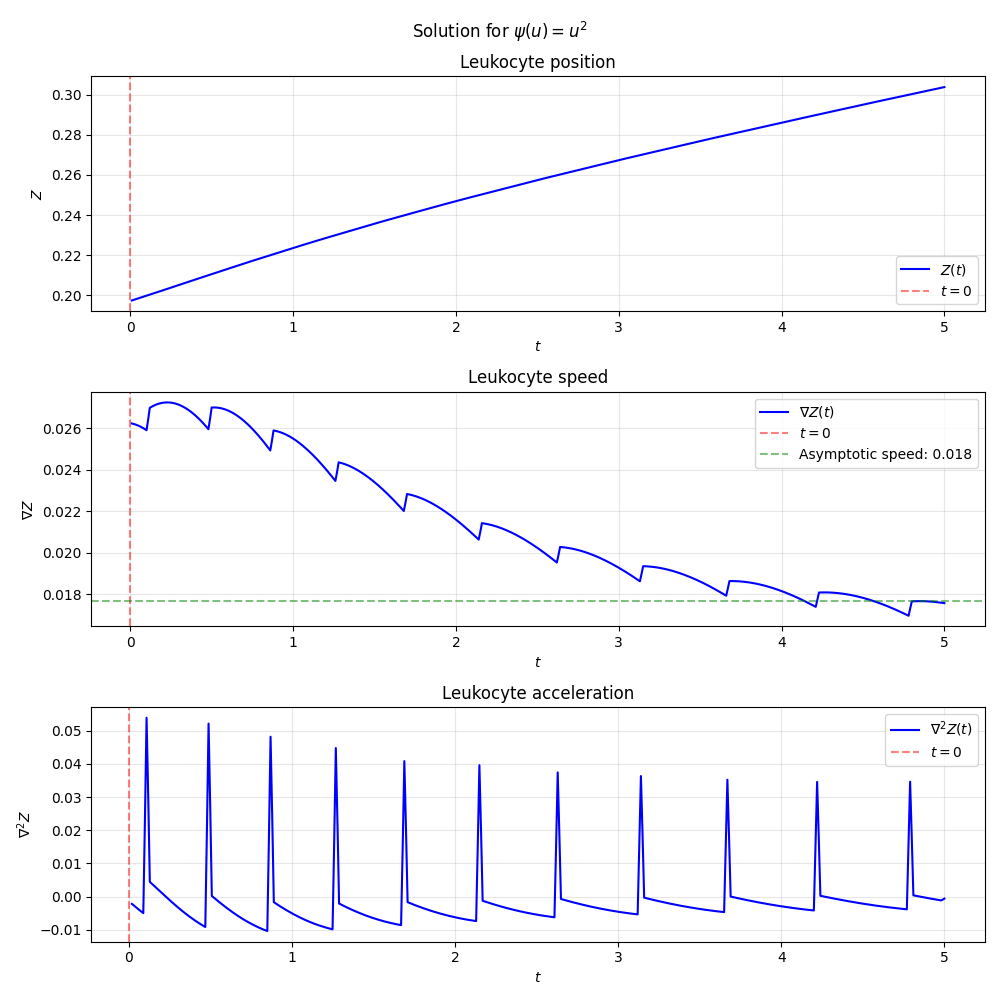
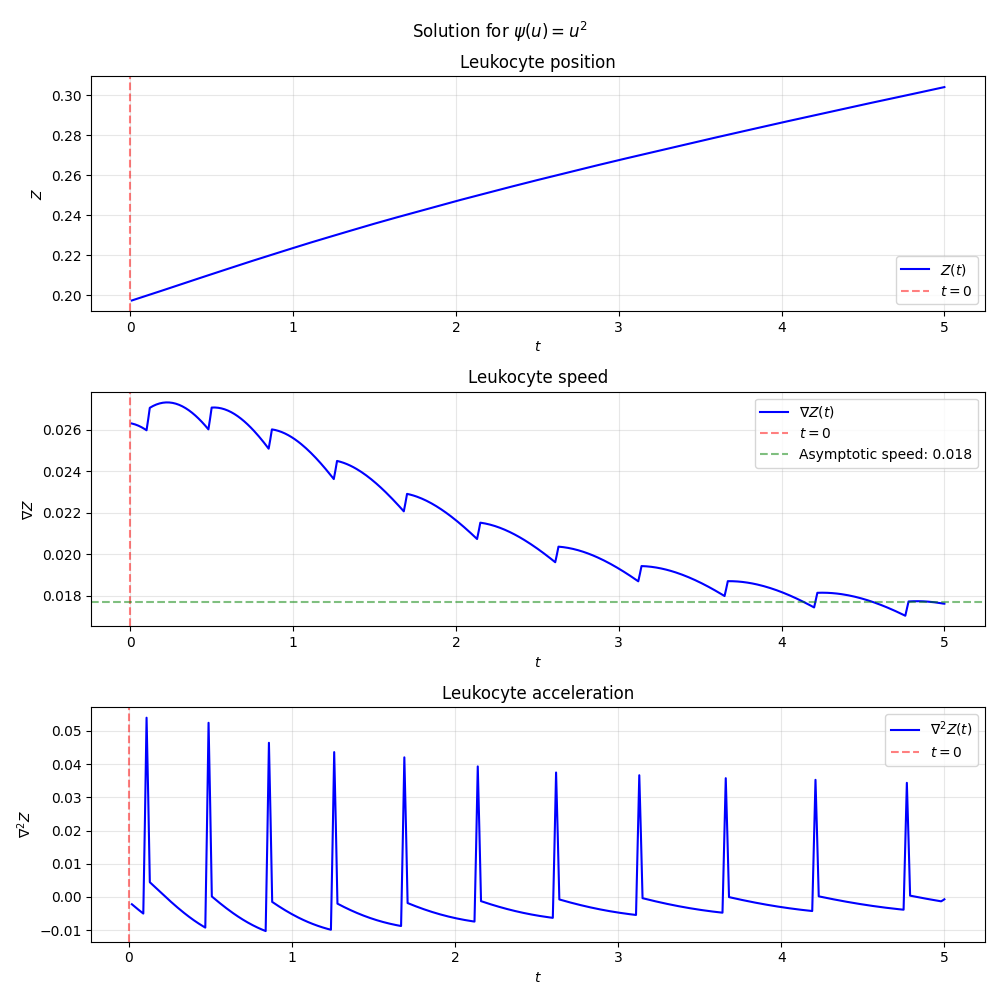
changing qt doesnt change anything

diff --git a/residence_time_opt.py b/residence_time_opt.py
@@ -110,7 +110,8 @@ class VolterraSolver:
     def local_time(self, n):
         #"""A_x^n = \Delta t \delta_{x=z^{n-1}} + (1 - \lambda \Delta t)A_x^{n-1}"""
         
-        qt = np.exp(-self.decay_rate * self.h) #1-self.decay_rate*self.h
+        #qt = np.exp(-self.decay_rate * self.h) 
+        qt = 1-self.decay_rate*self.h
         
         if n==0:
             self.A = self.A_initial.copy() 
